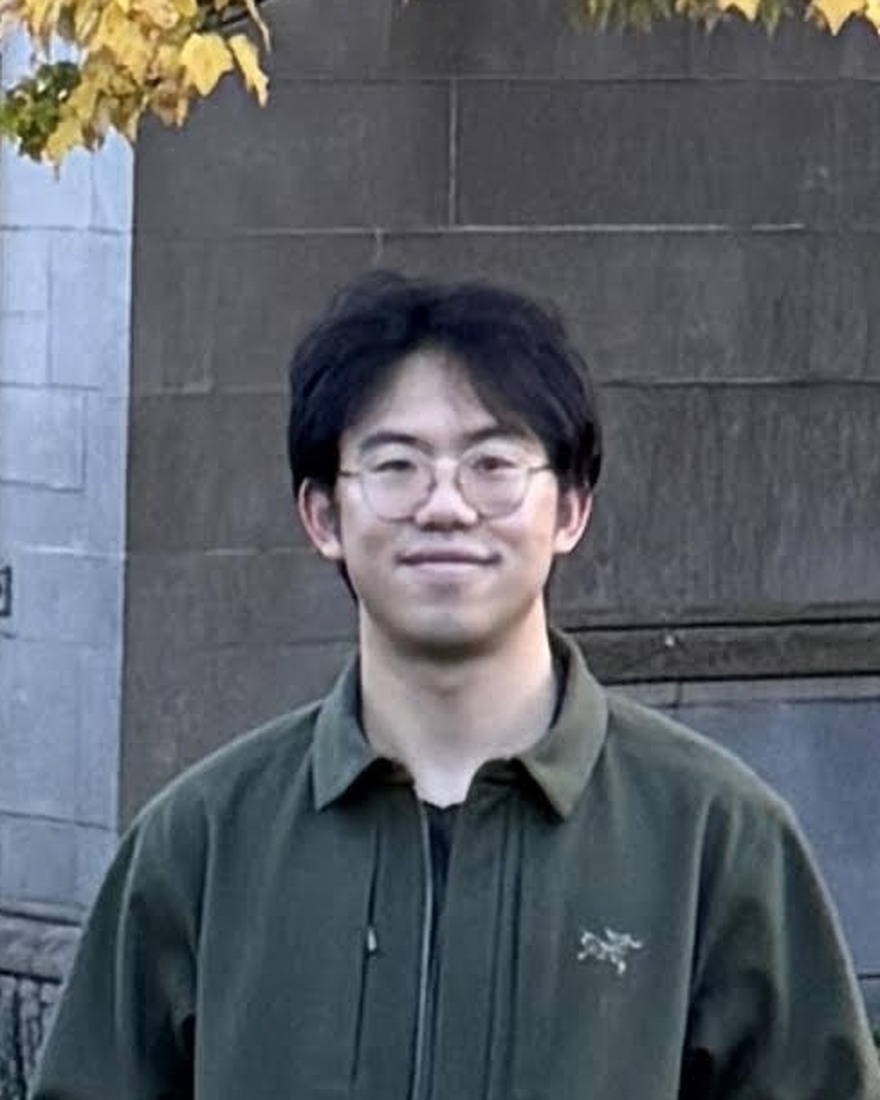
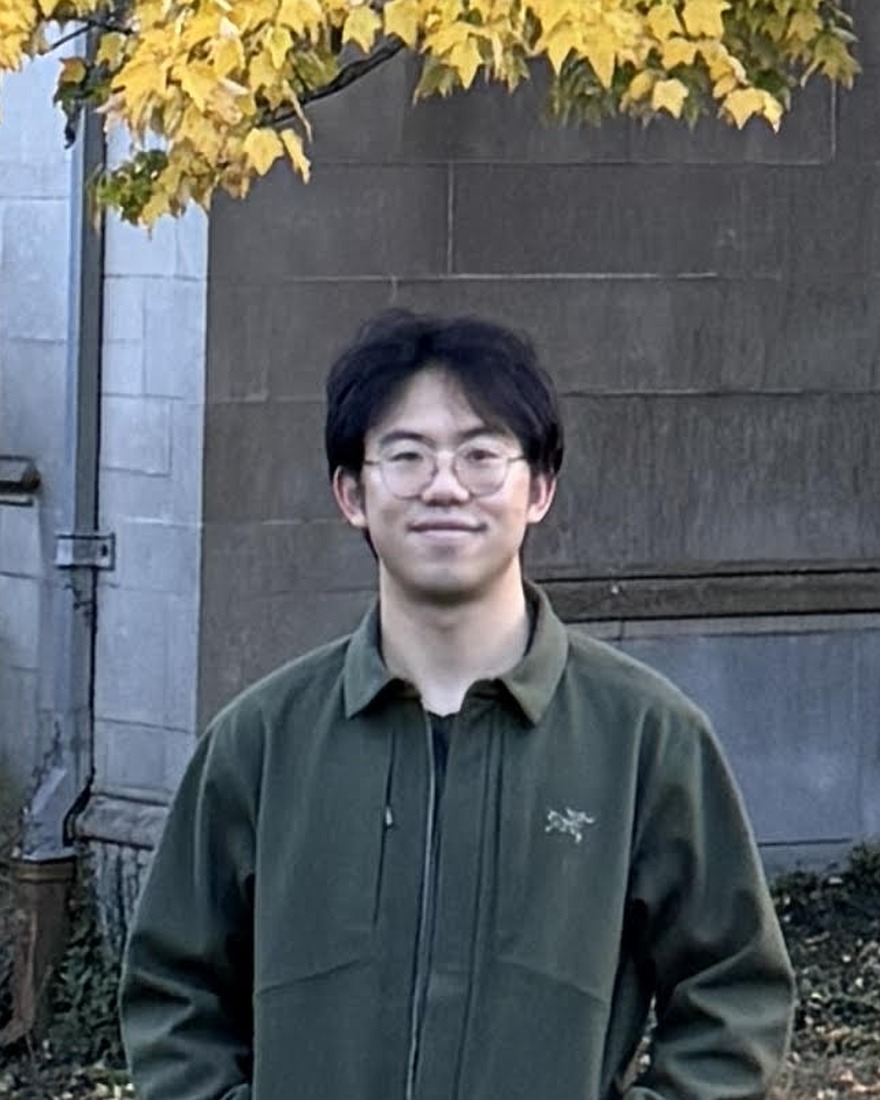
Profile photo: wider crop from full-resolution original
Claude-Session: https://claude.ai/code/session_01QQRYqYGi5C8uuhsGHPo3jm

diff --git a/index.html b/index.html
@@ -68,7 +68,7 @@
         <a class="btn" href="https://orcid.org/0000-0003-2136-9758" target="_blank" rel="noopener">ORCID</a>
       </div>
     </div>
-    <img class="photo" src="assets/profile.jpg?v=4" alt="Aaron Wang" width="272" height="340">
+    <img class="photo" src="assets/profile.jpg?v=5" alt="Aaron Wang" width="272" height="340">
   </div>
 </header>
 
